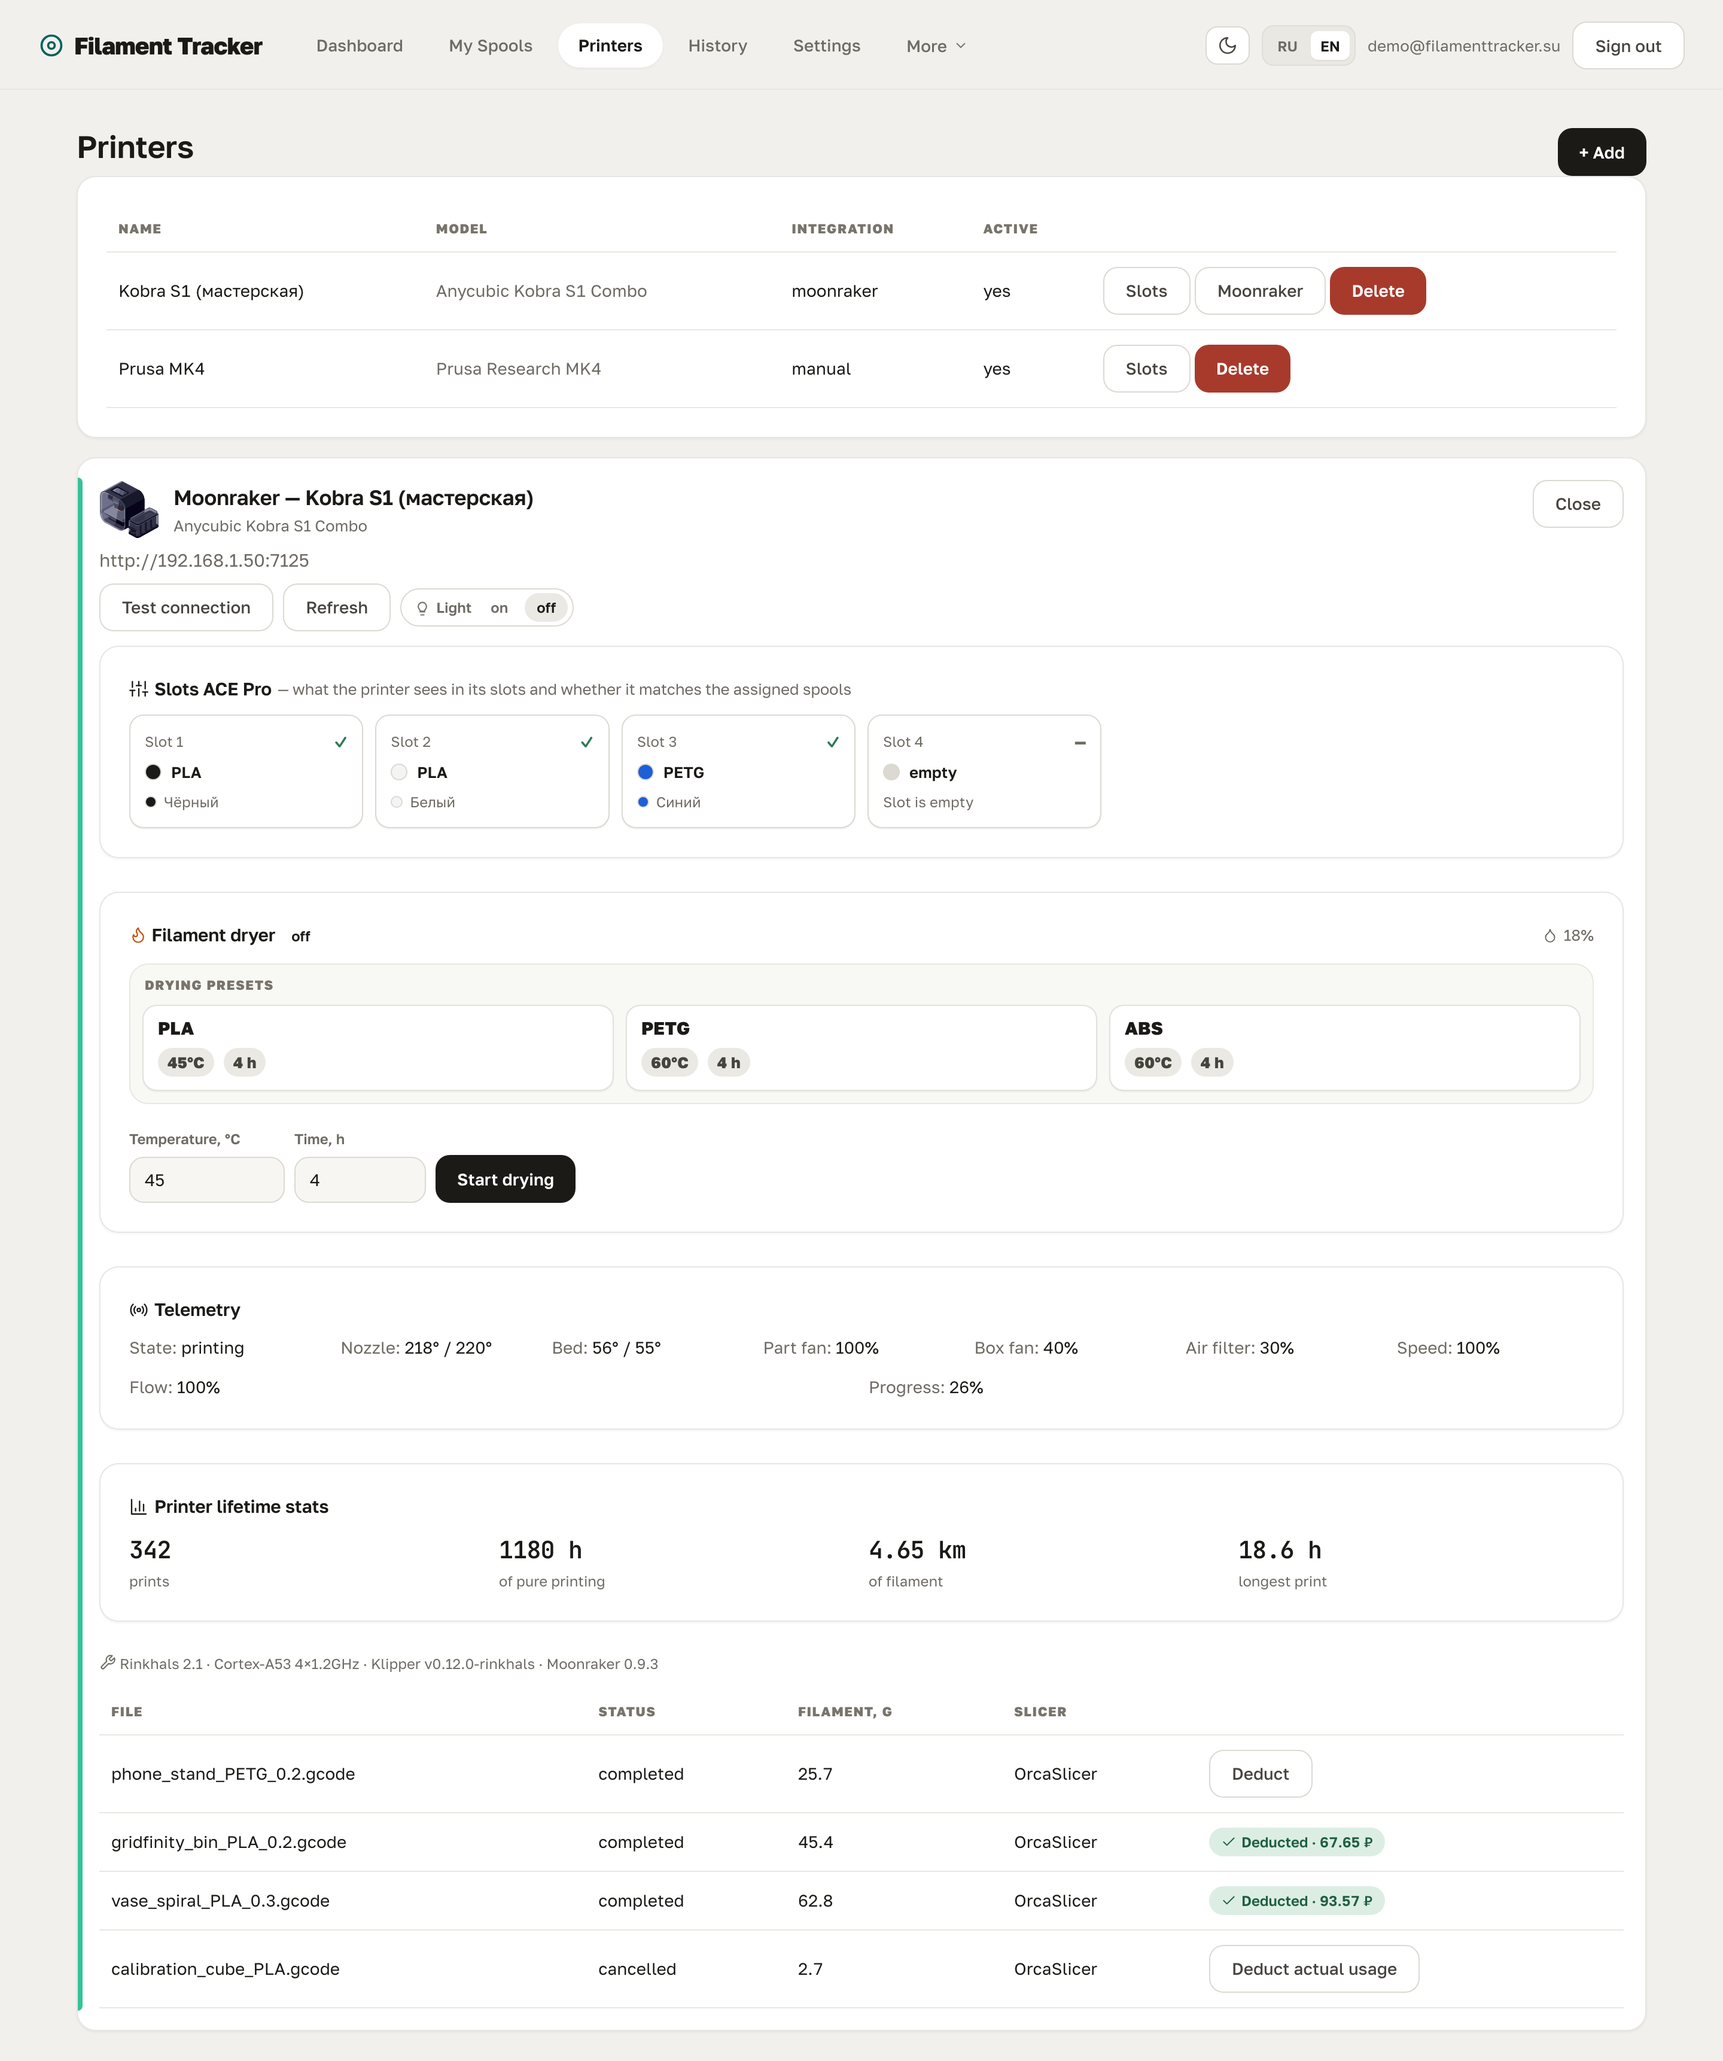
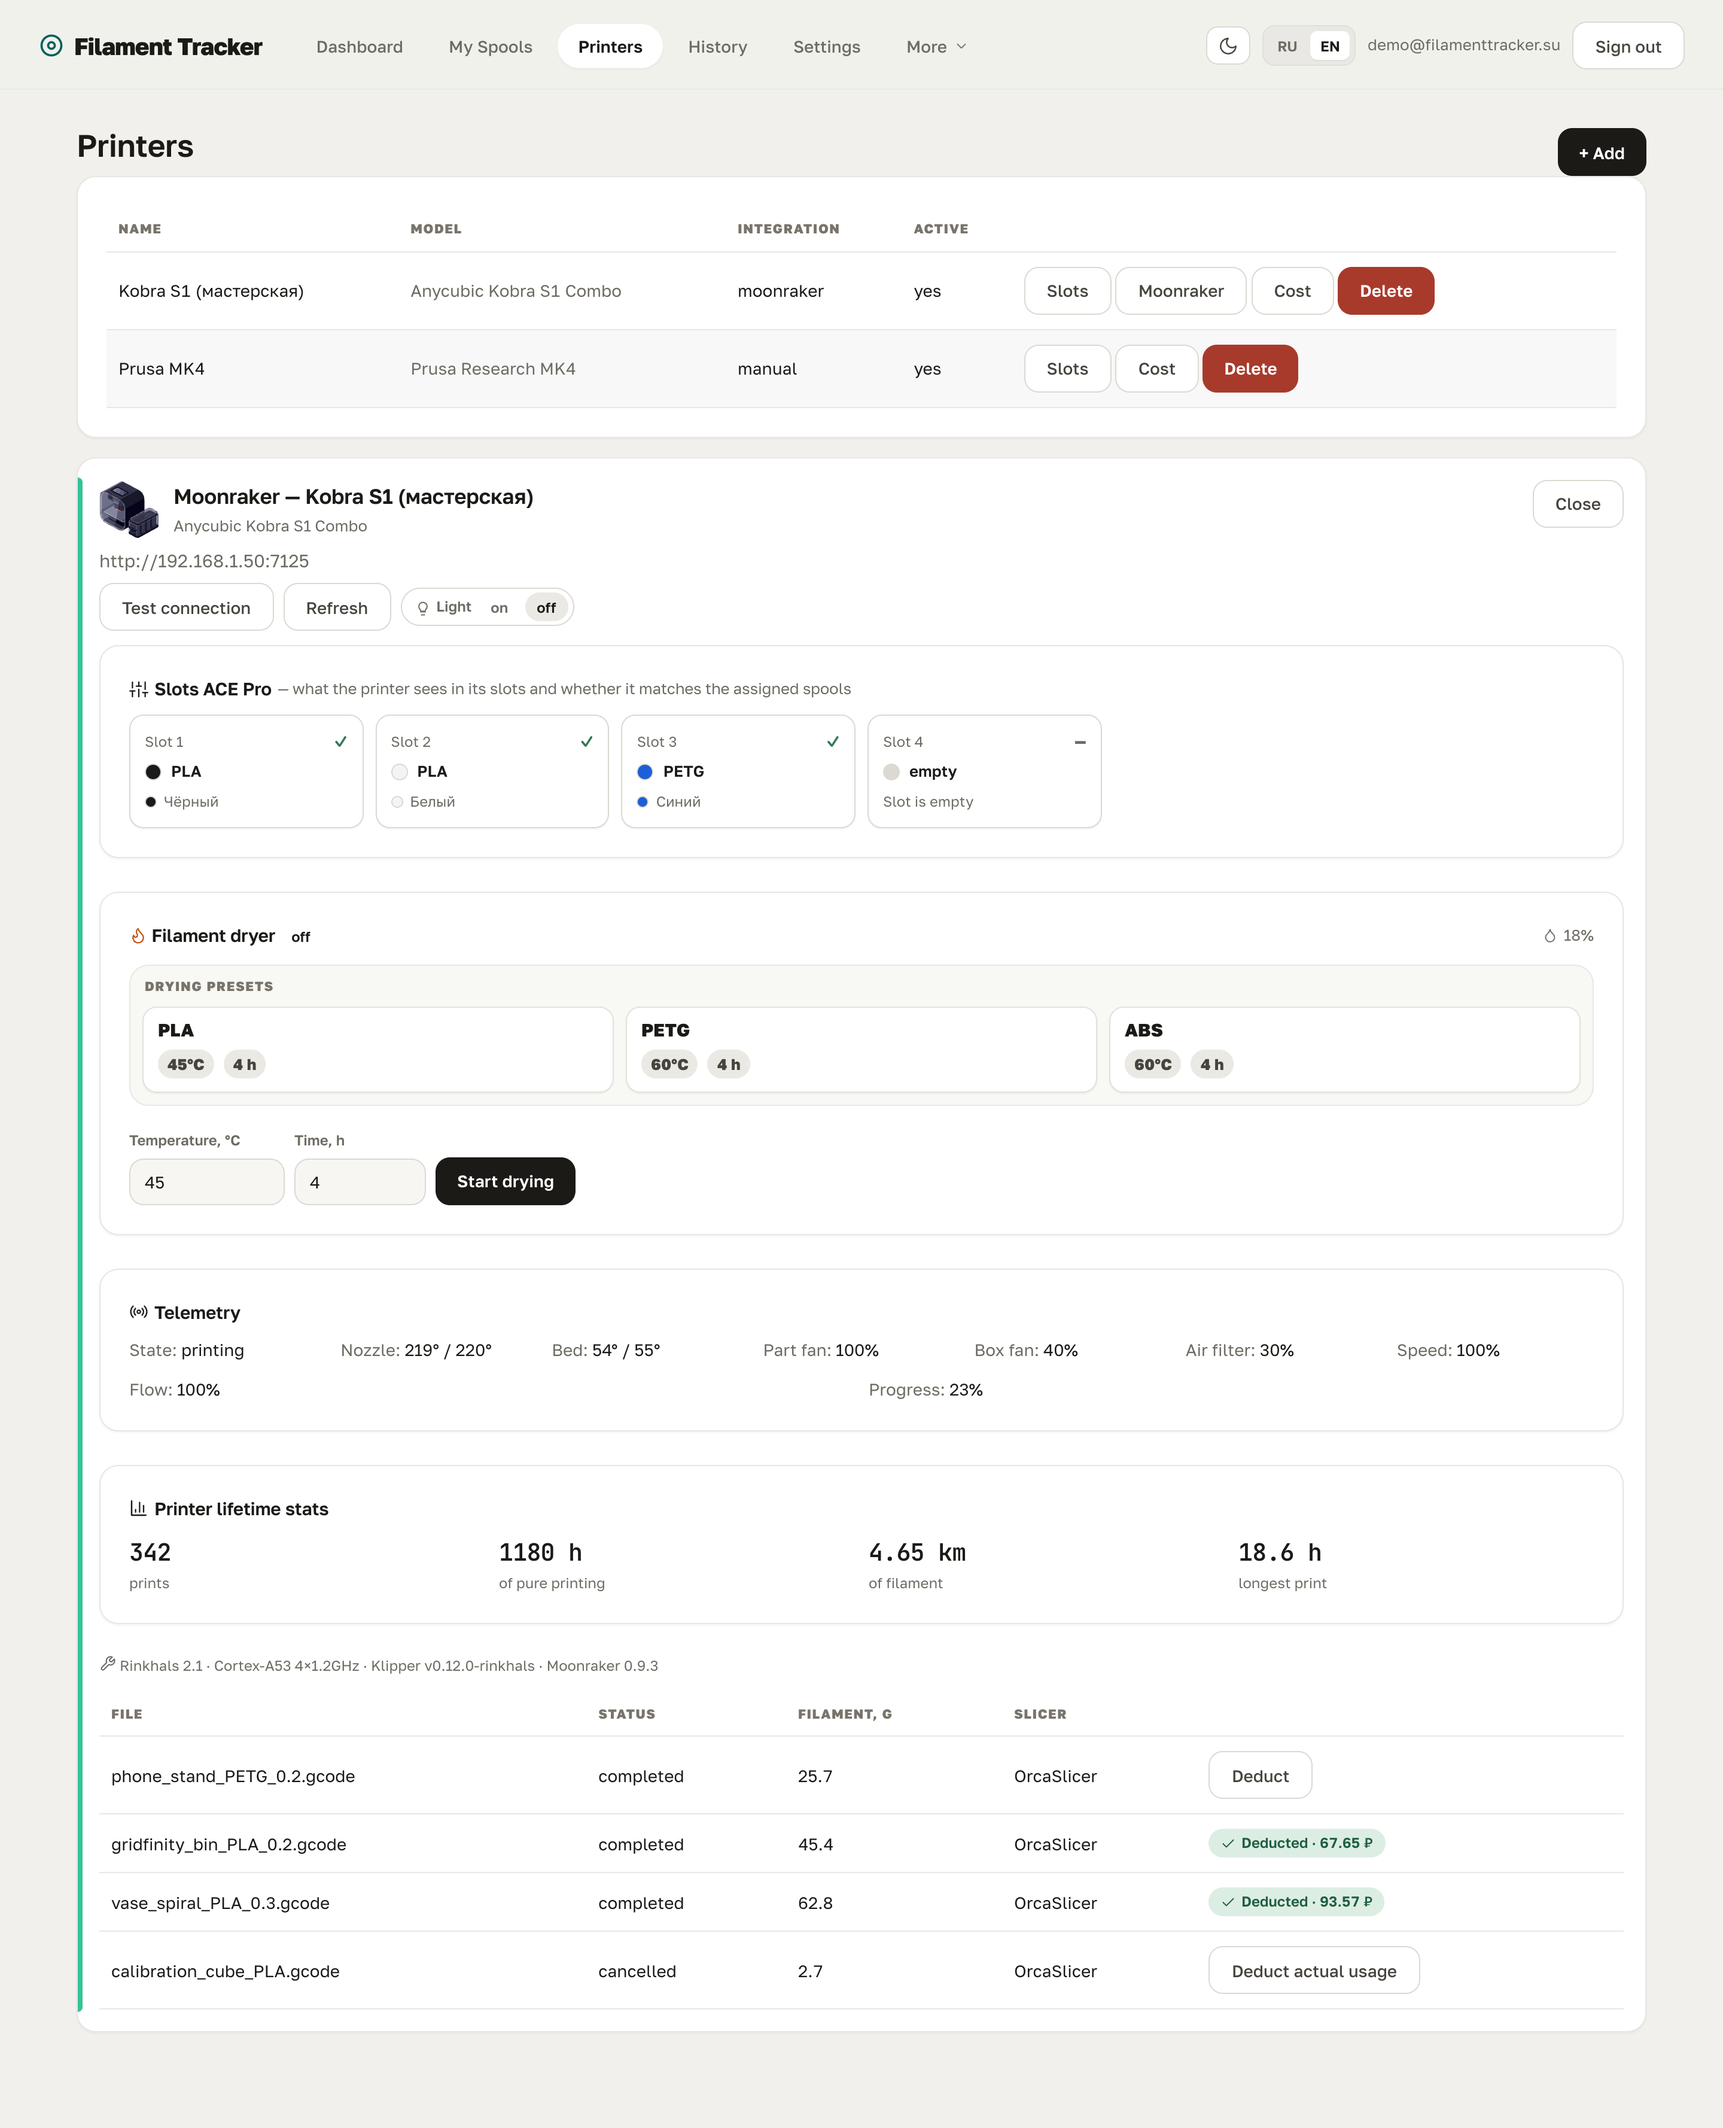
README: кадры расчёта стоимости и тарифов принтера; кнопка «Закрыть» в панели тарифов перестала растягиваться

diff --git a/frontend/src/pages/Printers.jsx b/frontend/src/pages/Printers.jsx
@@ -300,7 +300,9 @@ function CostParamsPanel({ printer, onClose, onSaved }) {
 
   return (
     <div className="card">
-      <div className="row" style={{ justifyContent: "space-between", alignItems: "center" }}>
+      {/* Обычный flex, а не .row: там у детей flex:1, и кнопка растянулась бы
+          во всю ширину. Так же устроены шапки соседних панелей. */}
+      <div style={{ display: "flex", justifyContent: "space-between", alignItems: "center", gap: 12 }}>
         <h3 className="card-title" style={{ margin: 0 }}>
           {t("Себестоимость")}: {printer.name}
         </h3>

diff --git a/README.md b/README.md
@@ -194,6 +194,16 @@ Filament Tracker отвечает на эти вопросы вместо вас
 Сколько на самом деле стоит напечатать вещь и почём её продавать. Себестоимость
 разложена на материалы, вашу работу, износ принтера и упаковку; тарифы у сохранённого
 расчёта замораживаются, чтобы отправленная заказчику цена не менялась задним числом.
+Граммы и время можно взять из готовой печати, а цена филамента тогда посчитается по
+фактически списанным катушкам. У непонятных полей — знак вопроса с объяснением.
+
+![Расчёт стоимости печати](docs/screenshots/cost.png)
+
+Во сколько обходится час работы, задаётся у самого принтера: цена, апгрейды,
+обслуживание, срок службы, загрузка, мощность и тариф на электричество. Пустое
+поле — значение по умолчанию, оно же стоит в подсказке.
+
+![Тарифы принтера](docs/screenshots/printer-cost.png)
 
 ### Настройки
 

diff --git a/README.en.md b/README.en.md
@@ -195,7 +195,17 @@ tool, and you match each one to a spool.
 
 What it really costs to print a thing, and what to charge for it. The cost is broken
 down into materials, your labour, printer wear and packaging; a saved estimate freezes
-its rates, so a price you already quoted never changes behind your back.
+its rates, so a price you already quoted never changes behind your back. Grams and time
+can be pulled from a finished print, and the filament price is then derived from the
+spools actually written off. Fields that need explaining carry a question mark.
+
+![Print cost calculator](docs/screenshots/en/cost.png)
+
+What an hour of printing costs is set on the printer itself: price, upgrades,
+maintenance, service life, utilisation, power draw and the electricity tariff. An empty
+field means the default, shown as the placeholder.
+
+![Printer rates](docs/screenshots/en/printer-cost.png)
 
 ### Settings
 
